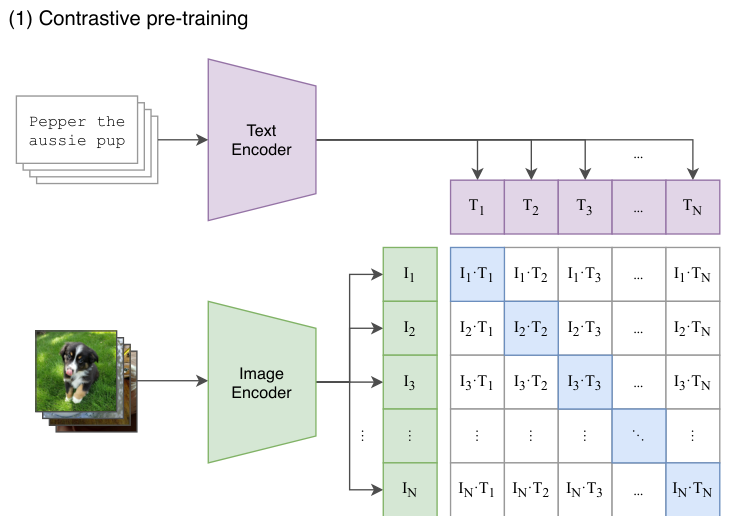
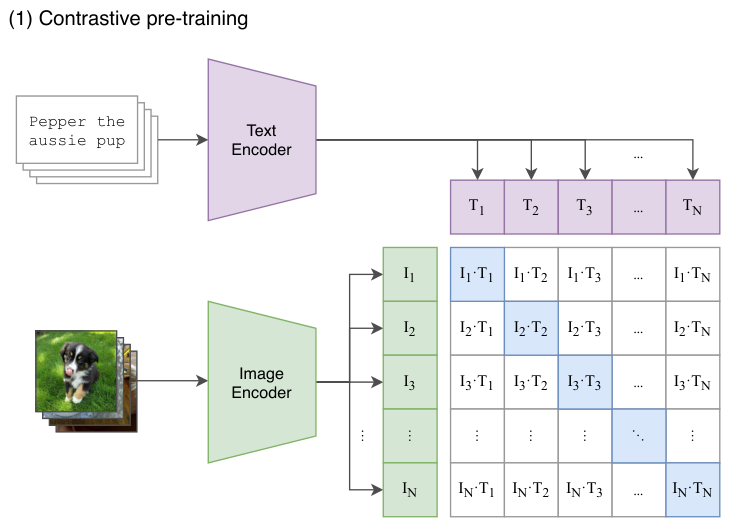
Show the translated paper in context on the Nota homepage

diff --git a/index.html b/index.html
@@ -7,15 +7,18 @@
 <link rel="icon" href="assets/nota.png"><link rel="stylesheet" href="site.css"><script defer src="site.js"></script>
 </head>
 <body>
-<header class="top"><a class="brand" href="#top" aria-label="Nota 首页"><img src="assets/nota.png" alt="">Nota</a><nav aria-label="主导航"><a href="#inside">阅读体验</a><a href="#get">获取 Nota <span aria-hidden="true">↗</span></a></nav></header>
+<header class="top"><a class="brand" href="#top" aria-label="Nota 首页"><img src="assets/nota.png" alt="">Nota</a><nav aria-label="主导航"><a href="#inside">论文翻译</a><a class="desktop-link" href="#notes">批注与追问</a><a class="desktop-link" href="#agents">Agent</a><a href="#get">获取 Nota <span aria-hidden="true">↗</span></a></nav></header>
 <main id="top">
 <section class="hero">
-<div class="hero-copy"><h1>把英文论文，<br>翻成<em>读得懂的中文</em>。</h1>
-<p>上传 PDF，或贴入 PDF、arXiv 链接。Nota 按论文结构翻译，公式和图表随文保留。你可以边读边写批注，直接引用原句问 Agent。</p>
-<a class="primary" href="#inside">用一篇论文看效果 <span aria-hidden="true">↓</span></a></div>
-<div class="desk" role="img" aria-label="摊开的 CLIP 论文首页和 Nota 的折角小纸人">
-<div class="sheet-back"></div><img class="paper" src="assets/clip.jpg" width="800" height="1040" alt=""><span class="tab"></span>
-<div class="pencil-note"><span>读到这里</span><img src="assets/nota.png" alt=""></div>
+<div class="hero-copy"><h1>读英文论文，<br>从<em>中文版</em>开始。</h1>
+<p>把 PDF 或论文链接交给 Nota。用中文读原文里的图表和公式，遇到疑问，在页边写下来，或直接问 Agent。</p>
+<a class="primary" href="#inside">试读一段 CLIP <span aria-hidden="true">↓</span></a></div>
+<div class="desk" role="img" aria-label="CLIP 英文论文首页前叠着中文译稿，可以对照标题、作者和摘要">
+<div class="sheet-back"></div><img class="paper" src="assets/clip.jpg" width="800" height="1040" alt="">
+<div class="proof"><div class="proof-head">CLIP <span>中文译稿</span></div>
+<strong>从自然语言监督中学习<br>可迁移的视觉模型</strong>
+<small>Alec Radford 等 · 2021</small>
+<div class="proof-abstract"><b>摘要</b><p>直接从图像的文字描述中学习，为训练视觉模型提供了更丰富的监督信号。</p></div></div>
 </div></section>
 <section class="feature" id="inside" aria-labelledby="translation-title">
 <div class="feature-copy">
@@ -24,23 +27,33 @@
   <a class="paper-credit" href="https://arxiv.org/abs/2103.00020">示例论文 · CLIP ↗</a>
 </div>
 <div class="stage translation" aria-label="翻译排版示意">
-  <div class="demo-toolbar"><span>CLIP · 图 1 节选</span>
+  <div class="demo-toolbar"><span>CLIP · 双语试读</span>
     <div class="switch" role="group" aria-label="示例语言">
-      <button data-group="language" data-value="zh" aria-pressed="true">中文</button><button data-group="language" data-value="en" aria-pressed="false">English</button>
+      <button data-group="language" data-value="zh" aria-pressed="true">中文</button><button data-group="language" data-value="both" aria-pressed="false">中英对照</button><button data-group="language" data-value="en" aria-pressed="false">English</button>
     </div>
   </div>
   <article class="sample-paper">
-    <h3 data-language="zh">图像与文本如何配对？</h3>
-    <h3 data-language="en" lang="en" hidden>How are images paired with text?</h3>
-    <figure><img width="729" height="516" src="assets/clip-pretraining.png" alt="CLIP 图 1 的对比预训练示意，图像和文本分别编码，对角线上的元素对应原始图文对。">
-    <figcaption data-language="zh"><b>图 1</b>　CLIP 联合训练一个图像编码器和一个文本编码器，以预测一批图文训练样本中的正确配对。</figcaption>
-    <figcaption data-language="en" lang="en" hidden><b>Fig. 1</b>　… CLIP jointly trains an image encoder and a text encoder to predict the correct pairings of a batch of (image, text) training examples.</figcaption></figure>
+    <header class="running-head"><b>CLIP</b><span>Radford et al. · 2021</span></header>
+    <div class="parallel">
+      <div data-language="zh"><h3>图像与文本如何配对？</h3><p>给定一批 <i>N</i> 个图文对，CLIP 分别对图像和文本编码。每张图像都要与每段文本比较，由此得到图 1 中的 <i>N</i> × <i>N</i> 相似度矩阵。</p></div>
+      <div data-language="en" lang="en" hidden><h3>How are images paired with text?</h3><p>CLIP encodes a batch of <i>N</i> images and their captions separately. Comparing each image with every caption gives the <i>N</i> × <i>N</i> similarity matrix in Figure 1.</p></div>
+    </div>
+    <figure><img width="732" height="525" src="assets/clip-pretraining.png" alt="两组编码器连接到相似度矩阵，蓝色对角线标出原始图文对。">
+    <figcaption class="parallel">
+      <span data-language="zh"><b>图 1（局部）</b> 对比预训练。蓝色方格标出了每张图像与其原始描述的配对。</span>
+      <span data-language="en" lang="en" hidden><b>Fig. 1 (detail)</b> Contrastive pre-training. Each blue cell pairs an image with its original caption.</span>
+    </figcaption></figure>
+    <div class="parallel paper-tail">
+      <p data-language="zh">矩阵的对角线上有 <i>N</i> 个正确配对，其余 <i>N</i><sup>2</sup> − <i>N</i> 个组合都是负例。训练时，模型提高正确配对的相似度，同时降低负例的相似度。</p>
+      <p data-language="en" lang="en" hidden>The diagonal contains the <i>N</i> matching pairs. The other <i>N</i><sup>2</sup> − <i>N</i> combinations are negatives. Training raises the similarity of the matched pairs and lowers it for the negatives.</p>
+    </div>
   </article>
-  <small class="credit">图与英文图注节选自 Radford 等人的 CLIP 论文，第 2 页。</small>
+  <small class="credit">插图取自 CLIP 图 1，示例正文据第 2.3 节改写。</small>
 </div>
 </section>
 
-<section class="feature" aria-labelledby="notes-title">
+<div class="companion-demos">
+<section class="feature" id="notes" aria-labelledby="notes-title">
 <div class="feature-copy">
   <h2 id="notes-title">读到哪一句，<br>就在哪一句讨论。</h2>
   <p>划选译文，在页边留批注，或把这句加入对话。再选一段也能一起问，正文和讨论始终在同一个阅读面板里。</p>
@@ -63,10 +76,10 @@
   </aside></div>
 </div></section>
 
-<section class="feature" aria-labelledby="agents-title">
+<section class="feature" id="agents" aria-labelledby="agents-title">
 <div class="feature-copy">
   <h2 id="agents-title">带着原文，<br>问你惯用的 Agent。</h2>
-  <p>内置 Nota Agent 使用我们为论文阅读搭建的 Agent Harness，能按需查看选文对应的段落和图表。也可以接入 Mac 上已安装并登录的 Codex 或 Claude Code。</p>
+  <p>Nota 自研的 Agent Harness 能带着你的问题回看段落和图表。习惯用 Codex 或 Claude Code？也可以接入 Mac 上已登录的客户端。</p>
 </div>
 <div class="stage agents" aria-label="Agent 接入方式示意">
   <div class="demo-toolbar"><span>Agent 接入示意</span></div>
@@ -81,6 +94,7 @@
     <div data-provider="claude" hidden><h3>使用本机 Claude Code</h3><p>在 Mac 上登录 Claude Code 后，选中论文中的段落，就能在阅读侧栏里继续和它讨论。</p><small>通过本机 Claude Code 接入</small></div>
   </div></div>
 </div></section>
+</div>
 <section id="get" class="get"><div><h2>获取 Nota</h2><p>新版 macOS 安装包尚未发布。你可以先查看公开源码的安装说明。</p></div><div class="get-links"><a class="primary" href="https://github.com/zhangzitaooo/paper-reading-workbench#快速开始">源码安装说明 ↗</a><a href="https://github.com/zhangzitaooo/paper-reading-workbench/releases">发布记录 ↗</a></div></section>
 </main><footer><a class="brand" href="#top">Nota</a><nav aria-label="联系作者"><a href="https://www.xiaohongshu.com/user/profile/6034a0a50000000001007e43"><img src="assets/xiaohongshu.svg" alt="">小红书</a><a href="mailto:zhangzitao997@gmail.com">邮件反馈 ↗</a></nav></footer>
 </body></html>

diff --git a/site.css b/site.css
@@ -15,15 +15,10 @@ h1{font-size:clamp(36px,5.1vw,72px);line-height:1.24;letter-spacing:-.06em}
 em{font-style:normal;background:linear-gradient(transparent 77%,var(--yellow) 77%,var(--yellow) 94%,transparent 94%)}
 .hero-copy p,.get p{color:var(--muted);margin:22px 0 26px;line-height:1.85;font-size:15px}
 .primary{display:inline-flex;justify-content:center;background:var(--ink);color:white;border-radius:9px;padding:11px 18px;gap:18px;font-size:14px}.primary:hover{background:#304e5d;text-decoration:none}
-.desk{height:100%;min-height:400px;position:relative;background-image:radial-gradient(#abbfb5 1px,transparent 1px);background-size:14px 14px;mask-image:linear-gradient(to right,transparent,#000 13%);overflow:hidden}
-.paper,.sheet-back,.tab{position:absolute}.paper,.sheet-back{top:16%;left:18%;width:67%;height:auto;box-shadow:0 4px 8px #223e3926,0 23px 46px #27423927;transform:rotate(8deg)}
-.sheet-back{top:20%;left:11%;height:95%;background:#fffcf3;transform:rotate(-7deg)}
-.tab{top:17%;left:65%;height:53px;width:16px;background:#f4ca55;transform:rotate(8deg);clip-path:polygon(0 0,100% 0,100% 100%,50% 83%,0 100%)}
-.pencil-note{position:absolute;right:3%;bottom:8%;display:flex;align-items:center;gap:4px;transform:rotate(-6deg);background:#ffefaa;color:#594d2d;box-shadow:1px 6px 13px #273e3b25;padding:5px 10px 5px 17px;font-size:15px}.pencil-note img{width:43px;height:43px}
 .get h2 {font-size:clamp(27px,3.2vw,44px);line-height:1.3;letter-spacing:-.045em}
 .get{display:flex;align-items:center;justify-content:space-between;gap:20px;border-top:1px solid var(--line);padding:44px 0}.get p{margin:8px 0 0}.get-links{flex-shrink:0}
 footer{border-top:1px solid var(--line);padding:26px 0 36px}footer .brand{font-size:26px}footer nav a{display:inline-flex;align-items:center;gap:5px}footer nav img{width:23px;height:23px}
-@media(max-width:700px){.top,main,footer{width:calc(100% - 32px)}.top{height:66px}.top nav,footer nav,.get-links{gap:15px}.hero{grid-template-columns:1fr}.hero-copy{padding:30px 24px 15px}h1{font-size:48px}.hero-copy p{margin:15px 0 19px}.wide{display:none}.desk{height:190px;min-height:0;mask-image:linear-gradient(transparent,#000 22%)}.paper,.sheet-back{width:48%;top:15%;left:38%}.sheet-back{left:32%;height:240px}.tab{left:73%}.pencil-note{right:8%;bottom:10%}.get{display:block;padding:28px 0}.get-links{margin-top:16px}.brand{font-size:30px}.brand img{width:32px;height:32px}}
+@media(max-width:700px){.top,main,footer{width:calc(100% - 32px)}.top{height:66px}.top nav,footer nav,.get-links{gap:15px}.hero{grid-template-columns:1fr}.hero-copy{padding:30px 24px 15px}h1{font-size:48px}.hero-copy p{margin:15px 0 19px}.wide{display:none}.get{display:block;padding:28px 0}.get-links{margin-top:16px}.brand{font-size:30px}.brand img{width:32px;height:32px}}
 
 .hero-copy h1 {font-size:clamp(36px,4.6vw,64px)}
 .hero-copy p {max-width:32em;padding-right:24px}
@@ -88,4 +83,106 @@ footer{border-top:1px solid var(--line);padding:26px 0 36px}footer .brand{font-s
   .agent-picker button {font-size:12px;padding:6px;gap:4px}
   .agent-picker img {width:19px;height:19px}
   .agent-detail {padding:19px}
+}
+
+/* A translated proof laid over the original paper. */
+.hero {
+  color: #fcf9ef;
+  background: radial-gradient(ellipse at 85% 90%, #41665a, transparent 58%), #183d36;
+  border-radius: 18px;
+  min-height: 455px;
+}
+.hero-copy h1 {font-size:clamp(44px,5vw,72px);line-height:1.22}
+.hero-copy em {color:#ffe9a1;background:none}
+.hero-copy p {color:#dae5da;max-width:29em}
+.hero-copy .primary {background:#fff7dc;color:#203c33;font-weight:600;border-radius:30px}
+.hero-copy .primary:hover {background:#ffe9a1}
+.desk {align-self:stretch;position:relative;isolation:isolate;min-height:340px}
+.paper,.sheet-back,.proof {position:absolute;background:#fffdf7;box-shadow:0 10px 30px #071b1540}
+.paper,.sheet-back {width:68%;top:13%;right:9%;height:auto;transform:rotate(9deg)}
+.sheet-back {aspect-ratio:8/10.4;transform:rotate(13deg);background:#e1daca}
+.proof {
+  width:63%;left:3%;top:31%;transform:rotate(-5deg);color:#223e35;
+  padding:clamp(18px,2.2vw,35px);border-top:3px solid #dfb961;
+}
+.proof-head,.running-head {
+  display:flex;align-items:baseline;justify-content:space-between;gap:10px;
+  font:600 13px/1.3 Georgia,serif;letter-spacing:.06em;border-bottom:1px solid #b9bfb0;
+  padding-bottom:9px;margin-bottom:17px;
+}
+.proof-head span,.running-head span {font:11px/1.5 -apple-system,sans-serif;letter-spacing:0;color:#52655b}
+.proof strong {display:block;font:700 clamp(18px,2vw,29px)/1.45 "Songti SC",Georgia,serif}
+.proof small {display:block;color:#67736a;margin-top:10px;font:italic 13px/1.5 Georgia,serif}
+.proof-abstract {border-top:1px solid #d9dace;margin-top:18px;padding-top:14px}
+.proof-abstract p {margin-top:5px;font-size:13px;line-height:1.7}
+.translation {
+  background-color:#e2ebe4;
+  background-image:radial-gradient(#91a49760 .75px,transparent .85px);
+  background-size:9px 9px;
+}
+.translation .demo-toolbar {background:#e2ebe4;padding:5px 8px;border-radius:8px}
+.sample-paper {
+  max-width:590px;padding:clamp(18px,2.2vw,32px);color:#242e29;
+  border-radius:3px;box-shadow:0 2px 3px #182b1f0c,0 11px 30px #1c352215;
+}
+.sample-paper .running-head {margin:0 0 16px}
+.sample-paper p {
+  margin:9px 0 0;font:15px/1.68 "Songti SC","Noto Serif CJK SC",Georgia,serif;
+}
+.sample-paper img {width:min(100%,315px);margin:12px auto}
+.sample-paper figcaption {color:#46524a;padding:9px 0;border-block:1px solid #e1e5de}
+.sample-paper sup {font-size:.7em;line-height:0}
+.parallel {display:grid}
+.parallel > * {grid-area:1 / 1}
+.parallel > [hidden] {display:block;visibility:hidden}
+.paper-tail p {margin-top:12px}
+.companion-demos {display:grid;grid-template-columns:1fr 1fr;gap:clamp(24px,3vw,48px);margin:48px 0}
+.companion-demos .feature {
+  display:flex;flex-direction:column;align-items:stretch;justify-content:space-between;
+  gap:22px;padding:0;border:0;
+}
+.companion-demos .feature-copy h2 {font-size:clamp(28px,2.65vw,40px)}
+.companion-demos .feature-copy h2 br {display:none}
+.companion-demos .feature-copy p {max-width:36em;margin-top:12px}
+.companion-demos .stage {padding:18px clamp(14px,1.8vw,25px) 24px}
+.companion-demos .stage h3 {font-size:22px}
+.companion-demos .spread {gap:12px;padding:19px}
+.companion-demos .agent-detail {padding:20px}
+.get {border-top:1px solid var(--line)}
+@media(max-width:900px) {
+  .companion-demos {grid-template-columns:1fr;gap:40px}
+  .companion-demos .feature {gap:16px}
+}
+@media(max-width:700px) {
+  .desktop-link {display:none}
+  .hero-copy {padding:30px 24px 0}
+  .desk {height:225px;min-height:0}
+  .paper,.sheet-back {width:46%;right:13%;top:13%}
+  .proof {width:min(52%,245px);left:13%;top:25%;padding:16px}
+  .proof strong {font-size:18px}
+  .proof-head {margin-bottom:10px}
+  .hero-copy h1 {font-size:clamp(36px,8vw,48px)}
+}
+@media(max-width:420px) {
+  .desk {height:200px}
+  .paper,.sheet-back {width:55%;right:8%}
+  .proof {width:62%;left:8%}
+  .proof-abstract {margin-top:10px;padding-top:7px}
+  .sample-paper {padding:18px 14px}
+  .companion-demos .spread {padding:16px}
+}
+@media(min-width:901px) {
+  .companion-demos .feature {display:grid;grid-template-rows:subgrid;grid-row:span 2;row-gap:22px}
+  .companion-demos .stage {display:flex;flex-direction:column}
+  .companion-demos .agent-sheet {flex:1}
+}
+.bilingual .parallel {grid-template-columns:repeat(2,minmax(0,1fr));gap:20px}
+.bilingual .parallel > * {grid-area:auto}
+.bilingual .parallel > :lang(en) {border-left:1px solid #dce1d9;padding-left:17px}
+.bilingual .sample-paper h3 {font-size:clamp(20px,1.8vw,24px)}
+@media(max-width:590px) {
+  .translation .demo-toolbar {align-items:flex-start;flex-wrap:wrap;row-gap:6px}
+  .bilingual .parallel {grid-template-columns:1fr;gap:10px}
+  .bilingual .parallel > :lang(en) {padding:0;border:0;color:#546459}
+  .bilingual .paper-tail p:lang(en) {margin:0}
 }

diff --git a/site.js b/site.js
@@ -7,8 +7,10 @@ for (const group of document.querySelectorAll('[role="group"]')) {
       for (const choice of buttons) {
         choice.setAttribute("aria-pressed", String(choice === button));
       }
+      const bilingual = key === "language" && value === "both";
+      if (key === "language") stage.classList.toggle("bilingual", bilingual);
       for (const panel of stage.querySelectorAll("[data-" + key + "]")) {
-        panel.hidden = panel.dataset[key] !== value;
+        panel.hidden = !bilingual && panel.dataset[key] !== value;
       }
     });
   }
